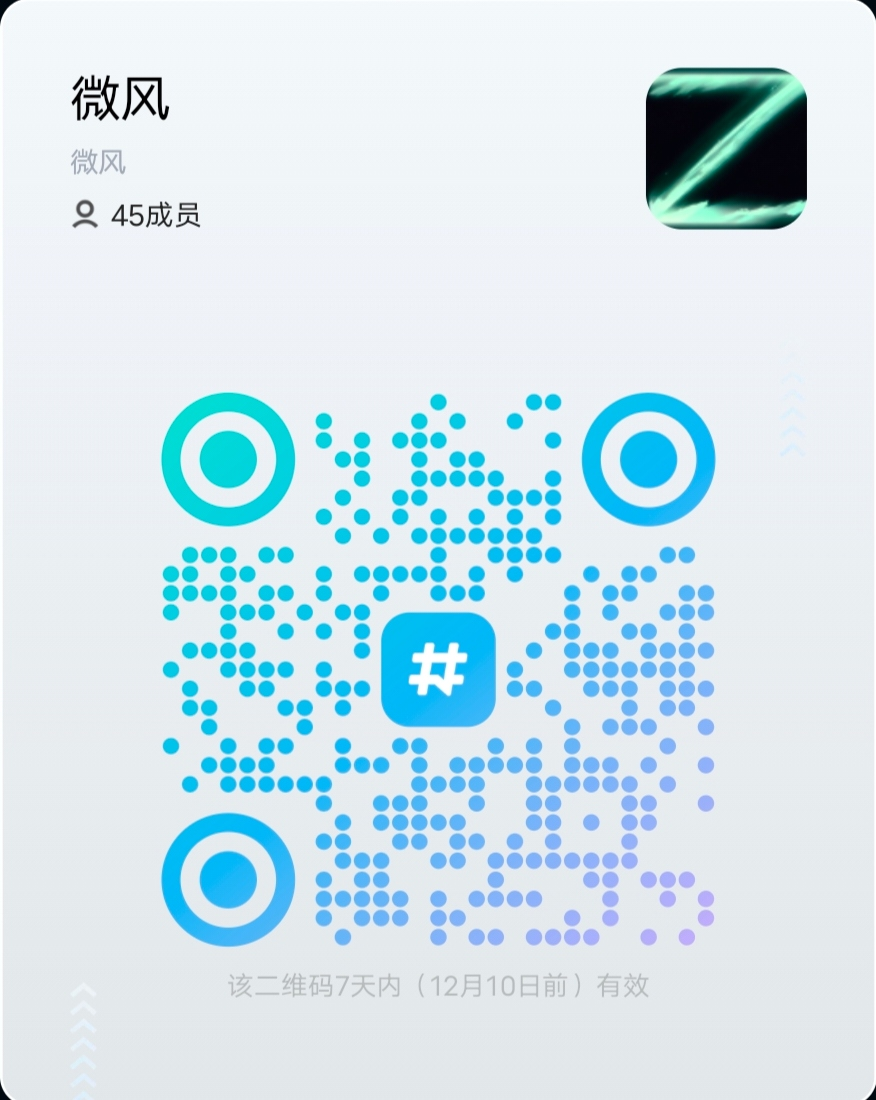
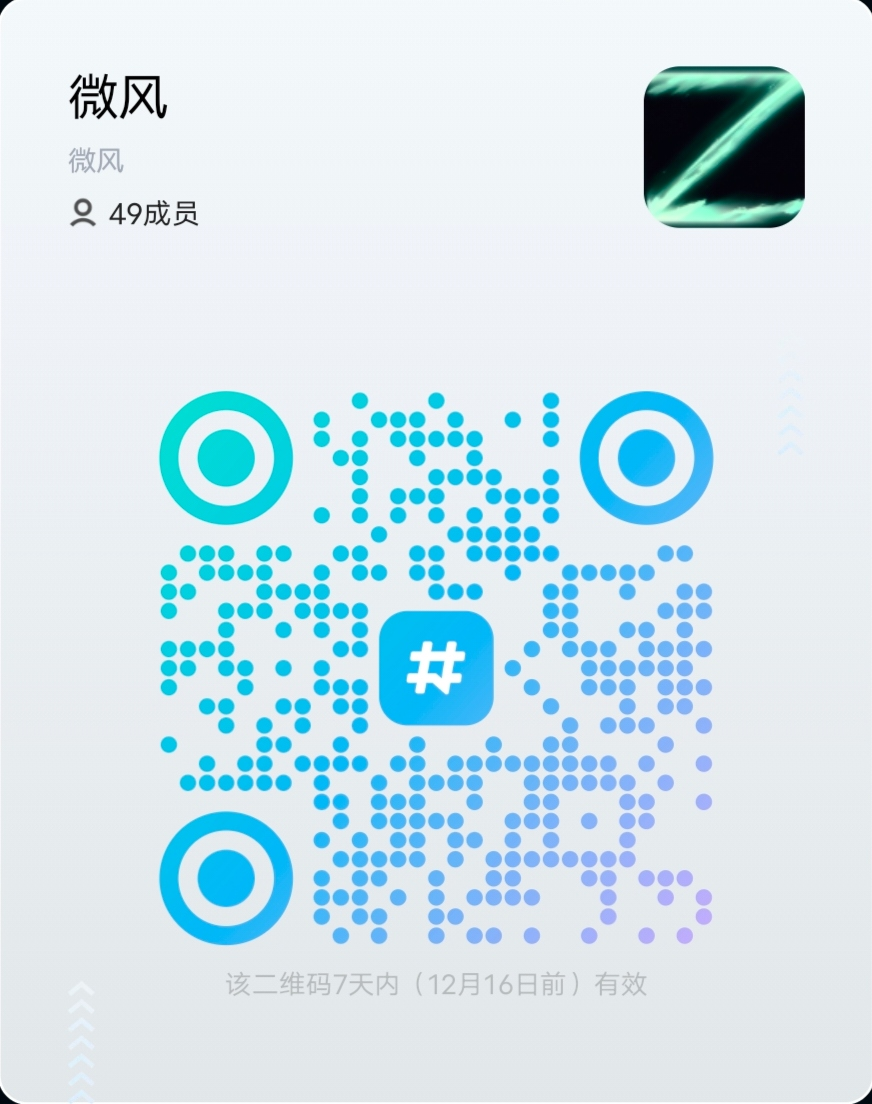
更新社区联系方式

diff --git a/README.md b/README.md
@@ -4,6 +4,11 @@ CDDA-微风(CDDA-Breeze)是[Cataclysm: Dark Days Ahead](https://github.com/Cleve
 
 ## 社区
 
+QQ群
+
+786761536
+
+
 QQ频道
 
 <img src ="./文件存放/QQ频道.jpg" width="218" height="271">
